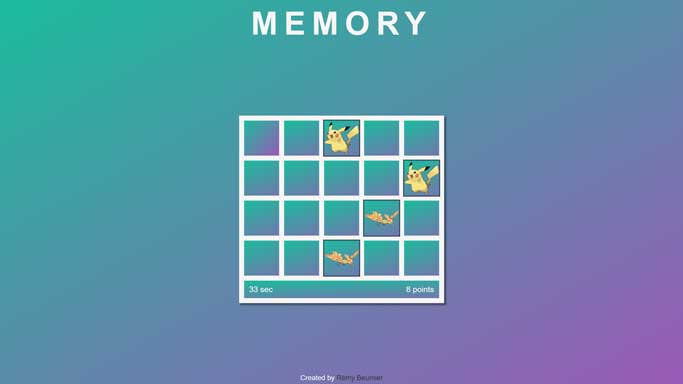
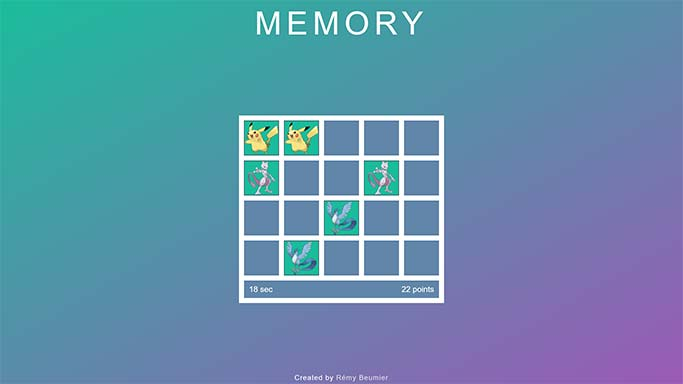
update memory design

Changed region(s): [[0.3382, 0.2812, 0.6764, 0.8125], [0.369, 0.0312, 0.6457, 0.0938], [0.4305, 0.9688, 0.5842, 1.0]]

diff --git a/style.css b/style.css
@@ -36,7 +36,7 @@ header {
     font-size: 32px;
     padding: 10px;
   }
-
+  
   header h1 {
     font-weight: 400;
   }
@@ -71,8 +71,6 @@ header {
 
 .box {
   background: #6186aa;
-/*   background-image: linear-gradient(to top left, #9b59b6, #1abc9c); */
-  background-size: 250%;
   width: 50px;
   height: 50px;
   float: left;
@@ -86,14 +84,20 @@ header {
   }
 }
 
-.play:hover {
+.box.play:hover {
   opacity: 0.7;
   cursor: pointer;
 }
 
-img {
+.box img {
   width: 100%;
   display: block;
+  border: solid 1px transparent;
+}
+
+.box .outlined {
+  border: solid 1px #34495e;
+  background: #1abc9c;
 }
 
 /* STATUS bar */
@@ -163,11 +167,6 @@ footer p a:hover {
 
 .show {
   display: block;
-}
-
-.outlined {
-  outline: solid 2px #34495e;
-  background: #9b59b6;
 }
 
 /* PRE modal window */
